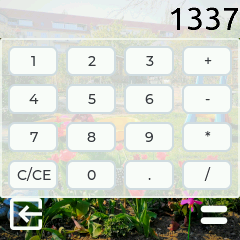
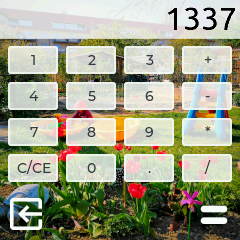
updated calc style

diff --git a/src/app/calc/calc_app_main.cpp b/src/app/calc/calc_app_main.cpp
@@ -36,6 +36,7 @@ lv_obj_t *calc_app_main_tile = NULL;
 lv_style_t calc_app_main_style;
 lv_style_t result_style;
 lv_obj_t *result_label;
+lv_style_t button_matrix_style;
 lv_style_t button_style;
 lv_obj_t *button_matrix;
 
@@ -70,6 +71,8 @@ void calc_app_main_setup( uint32_t tile_num ) {
     lv_style_set_bg_color(&result_style, LV_STATE_DEFAULT, LV_COLOR_WHITE);
     lv_style_set_bg_opa(&result_style, LV_STATE_DEFAULT, LV_OPA_80);
     lv_style_set_text_font(&result_style, LV_STATE_DEFAULT, &Ubuntu_32px);
+	lv_style_set_pad_left(&result_style, LV_STATE_DEFAULT, 3);
+	lv_style_set_pad_right(&result_style, LV_STATE_DEFAULT, 3);
 
     result_label = lv_label_create( calc_app_main_tile, NULL);
     lv_label_set_text(result_label, "");
@@ -80,17 +83,24 @@ void calc_app_main_setup( uint32_t tile_num ) {
 	lv_obj_set_size(result_label, 240, 38);
 
     // buttons
+    lv_style_copy(&button_matrix_style, ws_get_button_style());
+    lv_style_set_bg_opa(&button_matrix_style, LV_STATE_DEFAULT, LV_OPA_TRANSP);
+    lv_style_set_border_width( &button_matrix_style , LV_OBJ_PART_MAIN, 1 );
+    lv_style_set_border_side(&button_matrix_style, LV_STATE_DEFAULT, LV_BORDER_SIDE_TOP);
+    lv_style_set_radius( &button_matrix_style , LV_OBJ_PART_MAIN, 0 );
+
     lv_style_copy(&button_style, ws_get_button_style());
-    lv_style_set_bg_opa(&button_style, LV_STATE_DEFAULT, LV_OPA_80);
+    lv_style_set_bg_opa(&button_style, LV_STATE_DEFAULT, LV_OPA_90);
     lv_style_set_border_color( &button_style, LV_STATE_DEFAULT, LV_COLOR_WHITE );
     lv_style_set_border_color( &button_style, LV_STATE_CHECKED, LV_COLOR_SILVER );
     lv_style_set_border_color( &button_style, LV_STATE_FOCUSED, LV_COLOR_SILVER );
     lv_style_set_border_color( &button_style, LV_STATE_PRESSED, LV_COLOR_SILVER );
-
+    
     button_matrix = lv_btnmatrix_create(calc_app_main_tile, NULL);
-	lv_obj_add_style(button_matrix, LV_STATE_DEFAULT, &button_style);
+	lv_obj_add_style(button_matrix, LV_BTNMATRIX_PART_BG, &button_matrix_style);
+	lv_obj_add_style(button_matrix, LV_BTNMATRIX_PART_BTN, &button_style);
 	lv_obj_set_pos(button_matrix, 0, 38);
-	lv_obj_set_size(button_matrix, 240, 160);
+	lv_obj_set_size(button_matrix, 240, 152);
 	lv_btnmatrix_set_map(button_matrix, buttons);
 	lv_btnmatrix_set_one_check(button_matrix, false);
     lv_btnmatrix_set_btn_ctrl(button_matrix, 3, LV_BTNMATRIX_CTRL_CHECKABLE);
@@ -131,6 +141,9 @@ void calc_result_event_cb( lv_obj_t * obj, lv_event_t event )
     }
 }
 
+/*
+ * Update the operator buttons checked styles
+*/
 void calc_update_button()
 {
     switch( op ) {
@@ -168,6 +181,10 @@ void calc_update_button()
     }
 }
 
+/*
+ * Processes the pressed button
+ * The idea of this part is inspired by https://github.com/wfdudley/T-watch-2020/blob/master/appCalc.cpp
+*/
 void calc_process_button(char cmd)
 {
     bool showResult = false;
@@ -234,6 +251,9 @@ void calc_process_button(char cmd)
     lv_event_send_refresh(result_label);
 }
 
+/*
+ * Process the pressed button in combination with the current operator
+*/
 void calc_process_operator(char cmd, char op)
 {
     switch( op ) {
